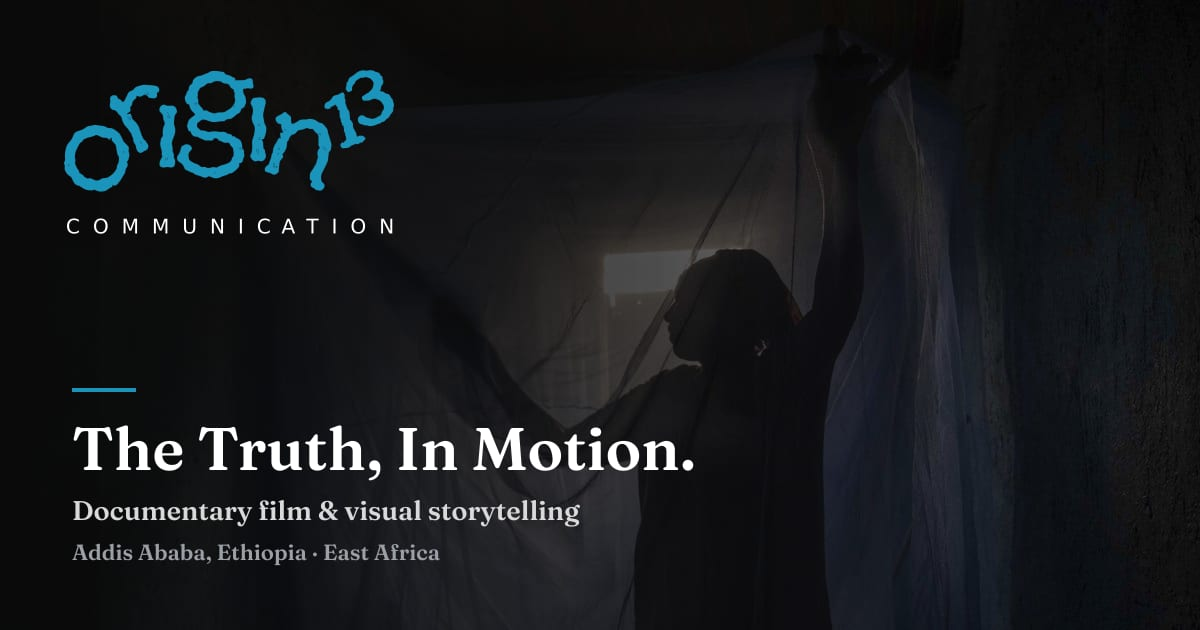
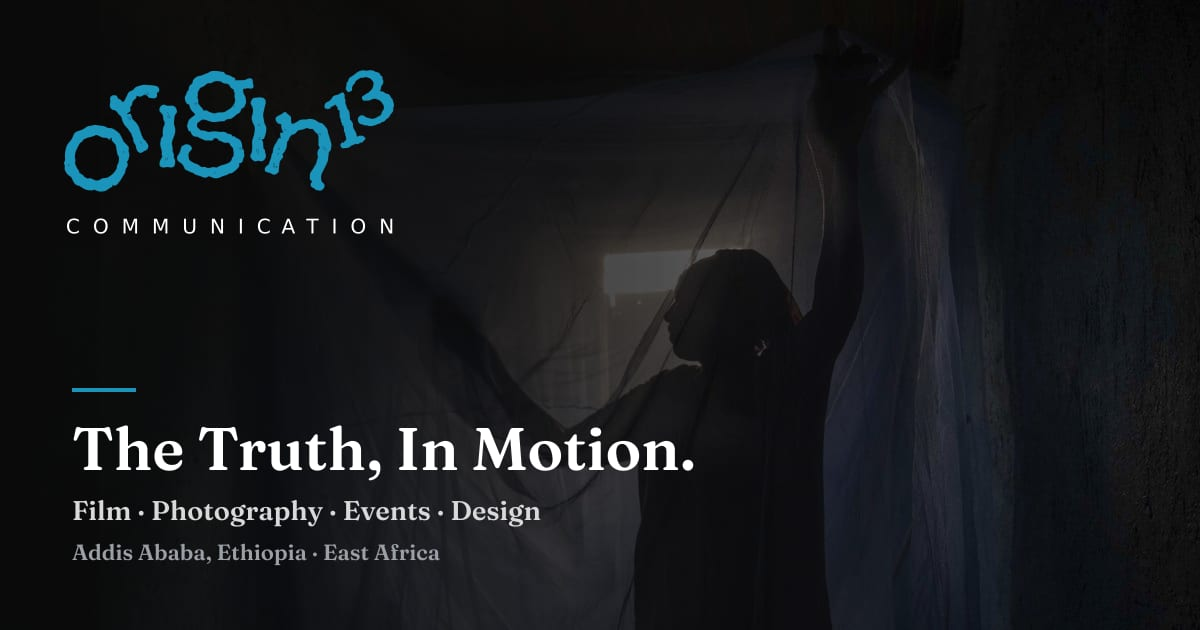
Add files via upload

Changed region(s): [[0.0617, 0.7841, 0.4933, 0.8444]]

diff --git a/src/routes/index.tsx b/src/routes/index.tsx
@@ -1,4 +1,5 @@
 import { getPageMetadata } from "@/lib/page-metadata.functions";
+import { Showreel } from "@/components/site/Showreel";
 import { canonicalLink, pageUrl } from "@/lib/site-url";
 import { resolveStudio } from "@/lib/editor-fields";
 import { useVisibility } from "@/lib/visibility";
@@ -8,7 +9,7 @@ import { SiteText } from "@/components/site/SiteText";
 import websiteMedia10 from "@/assets/crew.jpg.asset.json";
 import { createFileRoute, Link } from "@tanstack/react-router";
 import { useCallback, useEffect, useState } from "react";
-import { ArrowRight, ArrowUpRight, ChevronLeft, ChevronRight } from "lucide-react";
+import { ArrowRight, ArrowUpRight, ChevronLeft, ChevronRight, Pause, Play } from "lucide-react";
 import { FEATURED, PILLARS, SERVICES, STATS, type Story } from "@/data/studio";
 import { fallbackSlides, useHomeSlides, useHomeStats } from "@/lib/home-content";
 import { useSiteContent } from "@/lib/site-content";
@@ -24,7 +25,7 @@ export const Route = createFileRoute("/")({
     links: [canonicalLink("/")],
     meta: [
       { property: "og:url", content: pageUrl("/") },
-      { title: loaderData?.["seo_home_title"] || "Origin 13 Communication — Documentary Film & Visual Storytelling, Ethiopia" },
+      { title: loaderData?.["seo_home_title"] || "Origin 13 Communication | Creative Studio, Addis Ababa" },
       { name: "description", content: loaderData?.["seo_home_description"] || "Films, photography, live events, brand design and campaigns from an Addis Ababa team working across East Africa." },
       { property: "og:title", content: loaderData?.["seo_home_title"] || "Origin 13 Communication — Films, design & communications" },
       { property: "og:type", content: "website" },
@@ -42,12 +43,14 @@ function Hero() {
   const [i, setI] = useState(0);
   // Only download the slide being shown and the one after it, not all five at once.
   const [reached, setReached] = useState(0);
+  const [paused, setPaused] = useState(false);
   useEffect(() => { setReached((r) => Math.max(r, i)); }, [i]);
   const go = useCallback((d: number) => setI((x) => (x + d + slides.length) % slides.length), [slides.length]);
   useEffect(() => {
+    if (paused) return;
     const t = setTimeout(() => go(1), 7000);
     return () => clearTimeout(t);
-  }, [i, go]);
+  }, [i, go, paused]);
   const s = slides[i] ?? slides[0];
   if (!s) return null;
 
@@ -79,7 +82,7 @@ function Hero() {
             {slides.map((f, idx) => (
               <button key={f.id} onClick={() => setI(idx)} className="group min-w-0 flex-1 text-left" aria-label={`Show ${f.tag}`}>
                 <span className="relative block h-px w-full overflow-hidden bg-foreground/20">
-                  {idx === i && <span key={i} className="absolute inset-0 bg-primary animate-progress" />}
+                  {idx === i && <span key={`${i}-${paused}`} className={cn("absolute inset-0 bg-primary", !paused && "animate-progress")} />}
                   {idx < i && <span className="absolute inset-0 bg-foreground/60" />}
                 </span>
                 <span className={cn("mt-3 hidden text-xs font-medium transition-colors md:block", idx === i ? "text-foreground" : "text-muted-foreground group-hover:text-foreground")}>
@@ -89,6 +92,7 @@ function Hero() {
             ))}
           </div>
           <div className="flex gap-2">
+            <button onClick={() => setPaused((p) => !p)} className="rounded-full border border-border p-3 transition-colors hover:border-primary hover:text-primary" aria-label={paused ? "Play slideshow" : "Pause slideshow"} title={paused ? "Play" : "Pause"}>{paused ? <Play className="h-4 w-4" /> : <Pause className="h-4 w-4" />}</button>
             <button onClick={() => go(-1)} className="rounded-full border border-border p-3 transition-colors hover:border-primary hover:text-primary" aria-label="Previous"><ChevronLeft className="h-4 w-4" /></button>
             <button onClick={() => go(1)} className="rounded-full border border-border p-3 transition-colors hover:border-primary hover:text-primary" aria-label="Next"><ChevronRight className="h-4 w-4" /></button>
           </div>
@@ -131,6 +135,8 @@ function Home() {
       </Published>
 
       <Published name="home_partners"><PartnerStrip /></Published>
+
+      <Published name="home_showreel"><Showreel /></Published>
 
       <Published name="home_work">
       {/* Featured work */}

diff --git a/src/components/site/ManageProjects.tsx b/src/components/site/ManageProjects.tsx
@@ -10,7 +10,9 @@ import { Switch } from "@/components/ui/switch";
 import { Textarea } from "@/components/ui/textarea";
 import { Accordion, AccordionContent, AccordionItem, AccordionTrigger } from "@/components/ui/accordion";
 import { usePhotoCropper } from "@/components/site/PhotoCropDialog";
-import { BUCKET, PROJECT_KINDS, fetchProjects, isStoragePath, type Project, type ProjectKind, type ProjectSlide } from "@/lib/projects";
+import { BUCKET, PROJECT_KINDS, fetchProjects, isStoragePath, storyVideoUrl, type Project, type ProjectKind, type ProjectSlide } from "@/lib/projects";
+import { prepareImage } from "@/lib/image-prepare";
+import { parseVideo } from "@/lib/video";
 import { BRAND_CLIENTS, SERVICES, WORK_SHOWCASE } from "@/data/studio";
 import { useVisibility } from "@/lib/visibility";
 import { isPublished } from "@/lib/publication";
@@ -34,7 +36,8 @@ export function ItemRow({ thumb, title, note, published, onPublish, busy, action
   );
 }
 
-async function uploadPhoto(file: File) {
+async function uploadPhoto(original: File) {
+  const file = await prepareImage(original);
   if (file.size > 10 * 1024 * 1024) throw new Error("Please choose a photo under 10 MB.");
   const path = `${crypto.randomUUID()}.${file.name.split(".").pop() || "jpg"}`;
   const { error } = await supabase.storage.from(BUCKET).upload(path, file, { contentType: file.type });
@@ -55,6 +58,7 @@ function ProjectForm({ project, onDone }: { project?: Project; onDone: () => voi
   const [mediaType, setMediaType] = useState<Project["media_type"]>(project?.media_type ?? "image");
   const [file, setFile] = useState<File | null>(null);
   const [preview, setPreview] = useState(project?.media_type === "image" ? project.display_url : "");
+  const [storyVideo, setStoryVideo] = useState(project ? storyVideoUrl(project) : "");
   const [videoUrl, setVideoUrl] = useState(project?.media_type === "video_embed" ? project.media_url : "");
   const [slides, setSlides] = useState<SlideDraft[]>(project?.slides.length ? project.slides.map((s) => ({ ...s, ...(s.display_url ? { preview: s.display_url } : {}) })) : [{ media_url: "", chapter: "01 — Overview", title: "", text: "" }]);
   const [busy, setBusy] = useState(false);
@@ -69,6 +73,10 @@ function ProjectForm({ project, onDone }: { project?: Project; onDone: () => voi
       let media_url = project?.media_url ?? "";
       let media_type: Project["media_type"] = kind === "upload" ? mediaType : "image";
       let savedSlides: ProjectSlide[] = [];
+      if (kind === "story" && storyVideo.trim()) {
+        if (!parseVideo(storyVideo)) throw new Error("Please paste a YouTube or Vimeo link, for example https://www.youtube.com/watch?v=...");
+        savedSlides = [{ media_url: storyVideo.trim(), chapter: "video", title: "", text: "" }];
+      }
       if (kind === "brand_kit") {
         if (!slides.length) throw new Error("Add at least one slide.");
         for (const s of slides) if (!s.file && !s.media_url) throw new Error("Every slide needs a photo.");
@@ -161,6 +169,13 @@ function ProjectForm({ project, onDone }: { project?: Project; onDone: () => voi
               <Label htmlFor="pf-file">Photo (up to 10 MB)</Label>
               {preview && <img src={preview} alt="" className="aspect-[4/3] w-48 object-cover" />}
               <Input id="pf-file" type="file" accept="image/*" onChange={async (e) => { const f = await pick(e.target.files?.[0]); e.target.value = ""; if (f) { setFile(f); setPreview(URL.createObjectURL(f)); } }} />
+            </div>
+          )}
+          {kind === "story" && (
+            <div className="space-y-2">
+              <Label htmlFor="pf-story-video">Video link (optional)</Label>
+              <Input id="pf-story-video" placeholder="https://www.youtube.com/watch?v=... or https://vimeo.com/..." value={storyVideo} onChange={(e) => setStoryVideo(e.target.value)} />
+              <p className="text-xs text-muted-foreground">Paste a YouTube or Vimeo link and visitors can watch it on the website itself. The photo above is shown as the cover with a play button. Leave empty for a photo only.</p>
             </div>
           )}
         </>

diff --git a/src/components/site/BrandSlideshow.tsx b/src/components/site/BrandSlideshow.tsx
@@ -5,6 +5,7 @@ import { ChevronLeft, ChevronRight, Pause, Play } from "lucide-react";
 import { Button } from "@/components/ui/button";
 import { type IdentityBoard, type WorkTile } from "@/data/studio";
 import { cn } from "@/lib/utils";
+import { withAutoplay } from "@/lib/video";
 
 /** Home-style slideshow for a group of portfolio tiles (one brand, or one service). */
 export function BrandSlideshow({ client, tiles }: {
@@ -15,8 +16,9 @@ export function BrandSlideshow({ client, tiles }: {
   const [paused, setPaused] = useState(false);
   const [reduced, setReduced] = useState(false);
   const [visible, setVisible] = useState(false);
+  const [watching, setWatching] = useState<string | null>(null);
   const root = useRef<HTMLElement>(null);
-  const playing = visible && !paused && !reduced;
+  const playing = visible && !paused && !reduced && !watching;
   const label = client.name ?? "Work";
 
   useEffect(() => {
@@ -37,7 +39,7 @@ export function BrandSlideshow({ client, tiles }: {
 
   const tile = tiles[index] ?? tiles[0];
   if (!tile) return null;
-  const go = (direction: number) => setIndex((i) => (i + direction + tiles.length) % tiles.length);
+  const go = (direction: number) => { setWatching(null); setIndex((i) => (i + direction + tiles.length) % tiles.length); };
 
   return (
     <article ref={root} data-brand={client.id} aria-label={`${label} slideshow`} aria-roledescription="carousel" className="min-w-0">
@@ -59,13 +61,22 @@ export function BrandSlideshow({ client, tiles }: {
                 <span className="flex h-14 w-14 items-center justify-center rounded-full bg-scrim/60 backdrop-blur"><Play className="h-5 w-5 fill-current text-foreground" /></span>
               </div>
             )}
+            {slide.video && i === index && (
+              watching === slide.id ? (
+                <iframe src={withAutoplay(slide.video)} title={slide.title} className="absolute inset-0 z-20 h-full w-full bg-scrim" allow="autoplay; fullscreen; picture-in-picture; encrypted-media" allowFullScreen />
+              ) : (
+                <button type="button" onClick={() => setWatching(slide.id)} aria-label={`Play video: ${slide.title}`} className="absolute inset-0 z-20 flex items-center justify-center bg-scrim/20 transition-colors hover:bg-scrim/35">
+                  <span className="flex h-16 w-16 items-center justify-center rounded-full bg-primary text-primary-foreground shadow-elegant transition-transform duration-300 hover:scale-110"><Play className="h-6 w-6 fill-current" /></span>
+                </button>
+              )
+            )}
           </div>
         ))}
       </div>
       <div className="mt-3 flex items-center justify-between gap-3">
         <div className="flex flex-1 gap-2">
           {tiles.map((slide, i) => (
-            <Button key={slide.id} variant="ghost" onClick={() => setIndex(i)} aria-label={`Show ${slide.title}`} aria-pressed={i === index} className="h-8 min-w-0 flex-1 rounded-none p-0">
+            <Button key={slide.id} variant="ghost" onClick={() => { setWatching(null); setIndex(i); }} aria-label={`Show ${slide.title}`} aria-pressed={i === index} className="h-8 min-w-0 flex-1 rounded-none p-0">
               <span className={cn("relative block h-px w-full overflow-hidden", i === index ? "bg-primary/30" : "bg-border")}>
                 {i === index && <span key={`${index}-${playing}`} className={cn("absolute inset-0 bg-primary", playing && "animate-progress")} />}
               </span>

diff --git a/src/components/site/Showreel.tsx b/src/components/site/Showreel.tsx
@@ -1,0 +1,35 @@
+import { useState } from "react";
+import { Play } from "lucide-react";
+import { SiteText } from "@/components/site/SiteText";
+import { Reveal } from "@/components/site/Reveal";
+import { useSiteContent } from "@/lib/site-content";
+import { parseVideo, withAutoplay } from "@/lib/video";
+
+/** Home page showreel: shows only when a YouTube or Vimeo link is set in the Admin. The player loads when it is pressed. */
+export function Showreel() {
+  const c = useSiteContent();
+  const video = parseVideo(c["home_showreel_url"] ?? "");
+  const [playing, setPlaying] = useState(false);
+  if (!video) return null;
+  return (
+    <section className="mx-auto max-w-7xl px-6 py-24 lg:px-10 lg:py-32" aria-label="Showreel">
+      <Reveal>
+        <p className="eyebrow"><SiteText name="home_showreel_label">Showreel</SiteText></p>
+        <h2 className="mt-5 max-w-3xl text-4xl leading-tight md:text-6xl"><SiteText name="home_showreel_title">Watch our work.</SiteText></h2>
+      </Reveal>
+      <div className="media-tone relative mt-12 aspect-video w-full overflow-hidden bg-scrim">
+        {playing ? (
+          <iframe src={withAutoplay(video.embed)} title="Origin 13 showreel" className="absolute inset-0 h-full w-full" allow="autoplay; fullscreen; picture-in-picture; encrypted-media" allowFullScreen />
+        ) : (
+          <button type="button" onClick={() => setPlaying(true)} aria-label="Play the showreel" className="group absolute inset-0 block h-full w-full">
+            {video.thumbnail ? <img src={video.thumbnail} alt="" loading="lazy" decoding="async" className="h-full w-full object-cover transition-transform duration-[1400ms] ease-out group-hover:scale-105" /> : <div className="video-placeholder h-full w-full" />}
+            <span className="absolute inset-0 bg-scrim/30 transition-colors group-hover:bg-scrim/45" />
+            <span className="absolute inset-0 flex items-center justify-center">
+              <span className="flex h-20 w-20 items-center justify-center rounded-full bg-primary text-primary-foreground shadow-elegant transition-transform duration-300 group-hover:scale-110"><Play className="h-7 w-7 fill-current" /></span>
+            </span>
+          </button>
+        )}
+      </div>
+    </section>
+  );
+}

diff --git a/src/lib/editor-fields.ts b/src/lib/editor-fields.ts
@@ -15,7 +15,9 @@ export const EXTRA_CONTENT_FIELDS: EditorField[] = [
   ...Object.entries(copy).flatMap(([group, values]) => Object.entries(values).map(([key, value]) => field(key, `${group} — ${key.replace(`${group.toLowerCase()}_`, '').replaceAll('_', ' ')}`, value))),
   ...Object.entries(COMPANY).map(([key, value]) => key === "email"
     ? field("company_email", "Contact — Email addresses (one per line; the first one receives contact-form messages)", value, true)
-    : field(`company_${key}`, `Shared — Company — ${key}`, value)),
+    : key === "whatsapp"
+      ? field("company_whatsapp", "Contact — WhatsApp number (with country code, e.g. +251 91 122 3344; leave empty to hide)", value)
+      : field(`company_${key}`, `Shared — Company — ${key}`, value)),
   ...SOCIALS.map(([key, label]) => field(`social_${key}`, `Contact — Social links — ${label} (full web address; leave empty to hide)`, '')),
   ...NAV.map((n, i) => field(`nav_${i}_label`, `Shared — Navigation — ${n.label}`, n.label)),
   field("portfolio_works_label", "Portfolio — Work count label", "works"),
@@ -24,6 +26,9 @@ export const EXTRA_CONTENT_FIELDS: EditorField[] = [
   field("portfolio_typeface_label", "Portfolio — Typeface label", "Typeface"),
   field("portfolio_typeface_alphabet", "Portfolio — Typeface alphabet sample", "Aa Bb Cc Dd Ee Ff Gg 0123456789"),
   field('site_logo', 'Shared — Website logo', '', false, true),
+  field('home_showreel_label', 'Home — Showreel — label', 'Showreel'),
+  field('home_showreel_title', 'Home — Showreel — heading', 'Watch our work.'),
+  field('home_showreel_url', 'Home — Showreel — video link (YouTube or Vimeo; leave empty to hide the section)', ''),
   field('home_pillars_image', 'Home — How we work photo', SERVICES[0]?.image ?? '', false, true),
   ...PILLARS.flatMap((p, i) => [field(`pillar_${i}_title`, `About — Principle ${i + 1} — title`, p.title), field(`pillar_${i}_body`, `About — Principle ${i + 1} — text`, p.body, true)]),
   ...PILLARS.flatMap((_, i) => [field(`home_pillar_${i}_title`, `Home — How we work ${i + 1} — title (empty = same as About)`, ''), field(`home_pillar_${i}_body`, `Home — How we work ${i + 1} — text (empty = same as About)`, '', true)]),

diff --git a/src/lib/publication.ts b/src/lib/publication.ts
@@ -3,7 +3,7 @@ export type VisibilityMap = Record<string, boolean>;
 export const PAGE_KEYS: Record<string, string> = { '/': 'page_home', '/about': 'page_about', '/services': 'page_services', '/portfolio': 'page_portfolio', '/contact': 'page_contact' };
 export const PUBLICATION_ITEMS = [
   ...NAV.map(n => ({ key: PAGE_KEYS[n.to] ?? '', label: `${n.label} page`, group: 'Pages' })),
-  ...Object.entries({ home_intro: 'Home — Introduction & numbers', home_partners: 'Home — Partners', home_work: 'Home — Selected work', home_pillars: 'Home — How we work', home_services: 'Home — Services', about_story: 'About — Our story', about_pillars: 'About — Principles', about_team: 'About — Team', about_experience: 'About — Experience', about_partners: 'About — Partners', services_process: 'Services — Process', portfolio_uploads: 'Portfolio — Latest Uploads', contact_details: 'Contact — Details', contact_form: 'Contact — Form', site_footer: 'Shared — Footer' }).map(([key, label]) => ({ key, label, group: 'Sections' })),
+  ...Object.entries({ home_intro: 'Home — Introduction & numbers', home_partners: 'Home — Partners', home_showreel: 'Home — Showreel', home_work: 'Home — Selected work', home_pillars: 'Home — How we work', home_services: 'Home — Services', about_story: 'About — Our story', about_pillars: 'About — Principles', about_team: 'About — Team', about_experience: 'About — Experience', about_partners: 'About — Partners', services_process: 'Services — Process', portfolio_uploads: 'Portfolio — Latest Uploads', contact_details: 'Contact — Details', contact_form: 'Contact — Form', site_footer: 'Shared — Footer' }).map(([key, label]) => ({ key, label, group: 'Sections' })),
   ...SERVICES.flatMap(s => [{ key: `services_${s.id}`, label: `Services — ${s.title}`, group: 'Sections' }, { key: `portfolio_${s.id}`, label: `Portfolio — ${s.title}`, group: 'Sections' }]),
   ...BRAND_CLIENTS.map(b => ({ key: `brand_${b.id}`, label: b.name, group: 'Brand kits' })),
   ...WORK_SHOWCASE.map(t => ({ key: `work_${t.id}`, label: t.title, group: 'Portfolio slides' })),

diff --git a/src/components/site/PartnerStrip.tsx b/src/components/site/PartnerStrip.tsx
@@ -1,4 +1,6 @@
 import { resolveStudio } from "@/lib/editor-fields";
+import { useState } from "react";
+import { Pause, Play } from "lucide-react";
 import { useSiteContent } from "@/lib/site-content";
 import { SiteText } from "@/components/site/SiteText";
 import { PARTNERS } from "@/data/studio";
@@ -7,13 +9,17 @@ export function PartnerStrip() {
   const c = useSiteContent();
   const { partners } = resolveStudio(c);
   const row = [...partners, ...partners];
+  const [paused, setPaused] = useState(false);
   return (
-    <section className="bg-paper py-16 text-paper-foreground" aria-label="Institutional partners">
+    <section className="relative bg-paper py-16 text-paper-foreground" aria-label="Institutional partners">
+      <button type="button" onClick={() => setPaused((p) => !p)} aria-label={paused ? "Play logo scrolling" : "Pause logo scrolling"} title={paused ? "Play" : "Pause"} className="absolute right-4 top-4 rounded-full border border-paper-foreground/25 p-2 text-paper-foreground/70 transition-colors hover:text-paper-foreground md:right-8 md:top-6">
+        {paused ? <Play className="h-3.5 w-3.5" /> : <Pause className="h-3.5 w-3.5" />}
+      </button>
       <p className="text-center text-xs font-bold uppercase tracking-[0.28em] text-paper-foreground/60">
         <SiteText name="home_partners_label">Trusted by institutions shaping the continent</SiteText>
       </p>
       <div className="relative mt-10 overflow-hidden [mask-image:linear-gradient(90deg,transparent,black_12%,black_88%,transparent)]">
-        <ul className="partner-marquee flex w-max animate-marquee items-center gap-10 pr-10 md:gap-20 md:pr-20">
+        <ul style={paused ? { animationPlayState: "paused" } : undefined} className="partner-marquee flex w-max animate-marquee items-center gap-10 pr-10 md:gap-20 md:pr-20">
           {row.map((p, i) => (
             // The second copy only makes the scroll loop seamless, so screen readers skip it.
             <li key={i} aria-hidden={i >= partners.length ? true : undefined} className="flex h-14 w-32 shrink-0 items-center justify-center md:h-16 md:w-44">

diff --git a/src/server.ts b/src/server.ts
@@ -44,13 +44,22 @@ function isH3SwallowedErrorBody(body: string): boolean {
   }
 }
 
-// The temporary *.vercel.app address must not compete with the real domain in search results.
-function withRobotsHeader(request: Request, response: Response): Response {
+// Safe-by-default browser rules for every page, plus: the temporary *.vercel.app address
+// must not compete with the real domain in search results.
+const SECURITY_HEADERS: Record<string, string> = {
+  "X-Content-Type-Options": "nosniff",
+  "Referrer-Policy": "strict-origin-when-cross-origin",
+  "Permissions-Policy": "camera=(), microphone=(), geolocation=(), payment=()",
+  // Other websites may not put this site inside a frame; scripts and styles are not restricted here.
+  "Content-Security-Policy": "frame-ancestors 'self'; base-uri 'self'; object-src 'none'",
+};
+
+function withSiteHeaders(request: Request, response: Response): Response {
   try {
-    const host = (request.headers.get("x-forwarded-host") ?? request.headers.get("host") ?? "").split(":")[0] ?? "";
-    if (!host.endsWith(".vercel.app")) return response;
     const headers = new Headers(response.headers);
-    headers.set("X-Robots-Tag", "noindex, nofollow");
+    for (const [key, value] of Object.entries(SECURITY_HEADERS)) if (!headers.has(key)) headers.set(key, value);
+    const host = (request.headers.get("x-forwarded-host") ?? request.headers.get("host") ?? "").split(":")[0] ?? "";
+    if (host.endsWith(".vercel.app")) headers.set("X-Robots-Tag", "noindex, nofollow");
     return new Response(response.body, { status: response.status, statusText: response.statusText, headers });
   } catch {
     return response;
@@ -62,7 +71,7 @@ export default {
     try {
       const handler = await getServerEntry();
       const response = await handler.fetch(request, env, ctx);
-      return withRobotsHeader(request, await normalizeCatastrophicSsrResponse(response));
+      return withSiteHeaders(request, await normalizeCatastrophicSsrResponse(response));
     } catch (error) {
       console.error(error);
       return new Response(renderErrorPage(), {

diff --git a/src/routes/portfolio.tsx b/src/routes/portfolio.tsx
@@ -11,7 +11,7 @@ import { PageHero } from "@/components/site/PageHero";
 import { Reveal } from "@/components/site/Reveal";
 import { BrandSlideshow } from "@/components/site/BrandSlideshow";
 import { useSiteContent } from "@/lib/site-content";
-import { useProjects, type Project } from "@/lib/projects";
+import { storyVideoUrl, toEmbedUrl, useProjects, type Project } from "@/lib/projects";
 import { BRAND_CLIENTS, SERVICES, WORK_SHOWCASE, type WorkTile } from "@/data/studio";
 import { cn } from "@/lib/utils";
 import { resolvePortfolioContent, type PortfolioContent } from "@/lib/portfolio-content";
@@ -283,7 +283,10 @@ function Portfolio() {
   const { data: allProjects = [] } = useProjects();
   const projects = allProjects.filter((p) => p.kind === "upload");
   for (const p of allProjects) {
-    if (p.kind === "story" && p.service && p.display_url) content.tiles.push({ id: p.id, title: p.title, service: p.service, kind: "photo", image: p.display_url, blurb: p.description });
+    if (p.kind === "story" && p.service && p.display_url) {
+      const video = storyVideoUrl(p);
+      content.tiles.push({ id: p.id, title: p.title, service: p.service, kind: video ? "video" : "photo", image: p.display_url, blurb: p.description, ...(video ? { video: toEmbedUrl(video) } : {}) });
+    }
     if (p.kind === "brand_kit" && p.slides.length) {
       content.brands.push({ id: p.id, name: p.title, description: p.subtitle });
       p.slides.forEach((sl, i) => content.tiles.push({ id: `${p.id}-${i}`, title: sl.title, service: "branding", kind: "photo", client: p.id, blurb: sl.text, ...(sl.display_url ? { image: sl.display_url } : {}), ...(sl.chapter ? { chapter: sl.chapter } : {}) }));

diff --git a/src/routes/contact.tsx b/src/routes/contact.tsx
@@ -2,13 +2,14 @@ import { getPageMetadata } from "@/lib/page-metadata.functions";
 import { canonicalLink, pageUrl } from "@/lib/site-url";
 import { resolveStudio } from "@/lib/editor-fields";
 import { emailList } from "@/lib/emails";
+import { whatsappLink } from "@/lib/socials";
 import { Published } from "@/components/site/Published";
 import { SiteText } from "@/components/site/SiteText";
 import { Button } from "@/components/ui/button";
 import { useSiteContent } from "@/lib/site-content";
 import { createFileRoute } from "@tanstack/react-router";
 import { useState, type FormEvent } from "react";
-import { Clock, Mail, MapPin, Phone, Send, type LucideIcon } from "lucide-react";
+import { Clock, Mail, MapPin, MessageCircle, Phone, Send, type LucideIcon } from "lucide-react";
 import { COMPANY, SERVICES } from "@/data/studio";
 import { PageHero } from "@/components/site/PageHero";
 
@@ -41,6 +42,7 @@ function Contact() {
   const contactRows: { icon: LucideIcon; label: string; lines: string[]; href?: string; hrefs?: string[] }[] = [
   { icon: Mail, label: (site["contact_email_label"] ?? ""), lines: emails, hrefs: emails.map((e) => `mailto:${e}`) },
   { icon: Phone, label: (site["contact_phone_label"] ?? ""), lines: [company.phone], href: company.phoneHref },
+  ...(whatsappLink(company.whatsapp) ? [{ icon: MessageCircle, label: "WhatsApp", lines: [`Chat on WhatsApp · ${company.whatsapp}`], href: whatsappLink(company.whatsapp) }] : []),
   { icon: MapPin, label: (site["contact_address_label"] ?? ""), lines: [company.address, company.location] },
   { icon: Clock, label: (site["contact_hours_label"] ?? ""), lines: [company.hours] },
 ];

diff --git a/src/routes/__root.tsx b/src/routes/__root.tsx
@@ -102,7 +102,13 @@ export const Route = createRootRouteWithContext<{ queryClient: QueryClient }>()(
       { name: "twitter:card", content: "summary_large_image" },
       { name: "twitter:image", content: `${SITE_URL}/og-image.jpg` },
     ],
-    scripts: [{ type: "application/ld+json", children: structuredDataJson(loaderData?.content) }],
+    scripts: [
+      { type: "application/ld+json", children: structuredDataJson(loaderData?.content) },
+      // Cookie-free visitor counts and page-speed data. They start working once Analytics and Speed Insights are switched on in the Vercel project.
+      { children: "window.va=window.va||function(){(window.vaq=window.vaq||[]).push(arguments)};window.si=window.si||function(){(window.siq=window.siq||[]).push(arguments)};" },
+      { src: "/_vercel/insights/script.js", defer: true },
+      { src: "/_vercel/speed-insights/script.js", defer: true },
+    ],
     links: [
       {
         rel: "stylesheet",
@@ -152,8 +158,9 @@ function RootComponent() {
   return (
     <QueryClientProvider client={queryClient}>
       {/* Required: nested routes render here. Removing <Outlet /> breaks all child routes. */}
+      <a href="#main" className="sr-only focus:not-sr-only focus:fixed focus:left-4 focus:top-4 focus:z-[100] focus:rounded-full focus:bg-primary focus:px-5 focus:py-3 focus:text-sm focus:font-semibold focus:text-primary-foreground">Skip to content</a>
       <SiteHeader />
-      <main>
+      <main id="main" tabIndex={-1} className="outline-none">
         <PublishedPage><Outlet /></PublishedPage>
       </main>
       <Published name="site_footer"><SiteFooter /></Published>

diff --git a/src/components/site/ManageTeam.tsx b/src/components/site/ManageTeam.tsx
@@ -1,4 +1,5 @@
 import { useEffect, useState, type FormEvent } from "react";
+import { prepareImage } from "@/lib/image-prepare";
 import { useQueryClient } from "@tanstack/react-query";
 import { ArrowDown, ArrowUp, Loader2, Pencil, Plus, Save, Trash2 } from "lucide-react";
 import { toast } from "sonner";
@@ -50,10 +51,11 @@ export function ManageTeam() {
       let portrait = editing?.portrait ?? "";
       if (file) {
         if (!["image/jpeg", "image/png", "image/webp"].includes(file.type)) throw new Error("Choose a JPG, PNG or WebP photo.");
-        if (file.size > 10 * 1024 * 1024) throw new Error("Choose a photo smaller than 10 MB.");
-        const extension = file.type === "image/png" ? "png" : file.type === "image/webp" ? "webp" : "jpg";
+        const prepared = await prepareImage(file);
+        if (prepared.size > 10 * 1024 * 1024) throw new Error("Choose a photo smaller than 10 MB.");
+        const extension = prepared.type === "image/png" ? "png" : prepared.type === "image/webp" ? "webp" : "jpg";
         const path = `team/${crypto.randomUUID()}.${extension}`;
-        const { error: uploadError } = await supabase.storage.from(BUCKET).upload(path, file, { contentType: file.type });
+        const { error: uploadError } = await supabase.storage.from(BUCKET).upload(path, prepared, { contentType: prepared.type });
         if (uploadError) throw uploadError;
         uploadedPath = path;
         portrait = `storage:${path}`;
